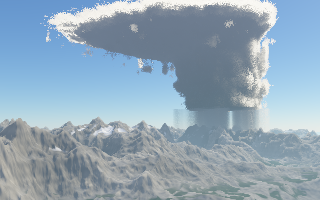
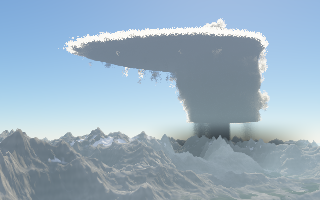
Preview: storm after the review; timings (#15)
Claude-Session: https://claude.ai/code/session_01SjY16JjyTvuME1oVQVUxjG

diff --git a/docs/techniques.html b/docs/techniques.html
@@ -445,7 +445,7 @@ haze  = 1 − e^(−w · depth / HazeDist)    colour = mix(surface, HazeCol, haz
 </ul>
 <p>Rain is the layer's ordinary <code>Rain</code>, the cloud a quarter of the way up the tower hung below the base, multiplied by the layer's <code>RainMask</code>: the envelope just above the base through a smoothstep, so the rain thins toward the edge of the tower's foot instead of ending in a wall, times broad shafts of 2-D noise streaked by a finer one. Rain with a mask is lit with the bottom ambient, as the base is, so it reads as dark streaks rather than a pale veil. (<code>RainShafts</code>, a plain shaft noise without the rest, is there for other layers.) Virga come from the shape: under the anvil, down to <code>VirgaLen</code> below it, the anvil's outline one <code>VirgaLen</code> higher is multiplied by a 2-D streak noise, so thin wisps hang only under the anvil and fade downward. The ground under the storm loses the sun through <code>fc-cloud-shadow</code> with three probes up the band (one probe at mid-height would miss the anvil), and, with <code>CloudSkyDim</code>, the sky too: <code>fc-cloud-sky</code> probes straight up the same way, and the terrain scales its sky light and warm bounce by the light that gets through. What is left is the blue part of the sky light, so the shade is darker and cooler.</p>
 <p>From the gallery piece's viewpoint the ground under the storm is mostly behind the front ridge, and with the sun behind the storm the range is in its own shade anyway, so the cloud shadow alone hardly shows. What makes the storm read as coming is the air under it: <code>StormGloom</code> treats the column of air below the base as shaded haze. Each ray's length inside a vertical cylinder around the storm, below the base and short of what it hits, is weighted by depth below the base (integrated in closed form, so the top of the column has no edge) and by how close the ray passes to the axis, and fades the pixel toward a dark grey. The result is a dark wall along the horizon under the base, with the rain shafts in it.</p>
-<p>Cost, measured with <code>Profile</code> (macOS, one core): the 320×200 preview takes 185 s, of which the clouds are 21 s (0.30 ms per pixel), less than the gallery cumulus costs per pixel (0.62 ms on the same crop of <em>Mountains</em>), not the 2–4× more the issue expected. Most samples in the band are empty air, which the shape-first skip makes nearly free; the box clip saves another 15% on a crop of the storm. The terrain dominates the frame.</p>
+<p>Cost, measured with <code>Profile</code> (macOS, one core): the 320×200 preview takes 143 s, of which the clouds are 15 s (0.21 ms per pixel; the gloom 0.1 s), less than the gallery cumulus costs per pixel (0.62 ms on the same crop of <em>Mountains</em>), not the 2–4× more the issue expected. Most samples in the band are empty air, which the shape-first skip makes nearly free; the box clip saves another 15% on a crop of the storm. The terrain dominates the frame.</p>
 <figure>
   <img src="../gallery/previews/storm-320x200.png" alt="A dark cumulonimbus over a mountain range: a broad tower with a flat dark base and a rain curtain beneath it, an anvil spreading left with a sunlit upper edge, and the range under it in shadow." loading="lazy">
   <figcaption><em>Oncoming storm</em> (<code>gallery/storm.ps</code>, 320×200).</figcaption>
